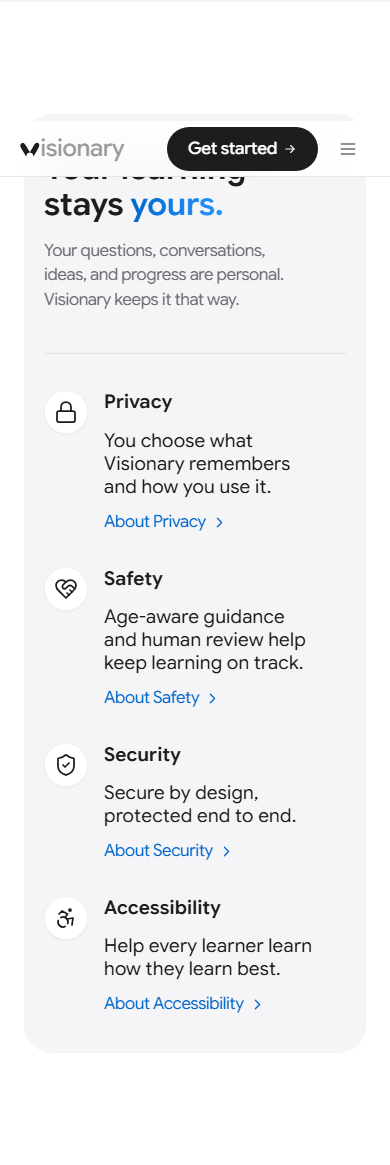
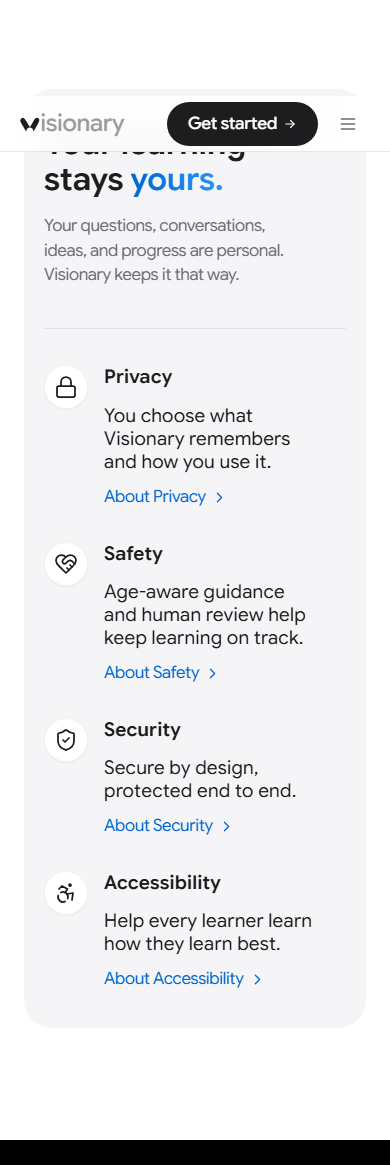
FHE-01 (V10): the intelligence chapter responds correctly on every device
Device-band study (320/390/768/844/1024/1068) found the phone and tablet
compositions scattering into voids: the generic chapter padding
(--public-section-py, 112px phone) rode INSIDE the promo band, pushing
the section edge ~112px below the bot so the founder's edge bleed never
cropped, and justify-center stranded free space above, between, and
below the words and mark.

Fix — the chapter is a full-bleed stage and now lays out with the
pinned hero's own grammar:
- padding-block: 0 on the promo band (bridge override): the mark
  anchors at the section floor and the bleed crops past the real edge
- the words center in the free stage above the mark (my-auto), never a
  justify-center cluster
- the mark scales by tier: 62vw phone, 42vw tablet (323->354px on
  768/844), 40vw desktop — the product earns presence at every width
- one image element throughout (no display:none duplicates)

Verified across the band: 320/390/768/844 read statement -> breath ->
product rising past the frame; 1024/1068 keep the words-left/product-
right stage; no horizontal overflow at any width; quality gate PASS;
tests 871/871 after scope refresh.

diff --git a/visionary-app/frontend/src/components/landing/persona/premium/PremiumIntelligenceSection.jsx b/visionary-app/frontend/src/components/landing/persona/premium/PremiumIntelligenceSection.jsx
@@ -258,14 +258,14 @@ function PremiumIntelligenceSection({ steps, sub, promo = false, ctaLabel, ctaTo
 
   if (promo) {
     return (
-      <section ref={headRef} data-section="05-intelligence" className="scene-dark relative isolate flex min-h-[clamp(560px,74svh,780px)] flex-col items-center justify-center overflow-hidden lg:flex-row" style={{ fontFamily: fontStack }}>
+      <section ref={headRef} data-section="05-intelligence" className="scene-dark relative isolate flex min-h-[clamp(560px,74svh,780px)] flex-col overflow-hidden lg:flex-row lg:items-center" style={{ fontFamily: fontStack }}>
         {/* Apple's dark chapters are flat black — no glow washes (measured
             2026-11-21 on /education + /iphone); the gradient statement and
             the product carry the scene's color. */}
         {/* the words — left of the product: Apple's product-page grammar
             (the words introduce, the product appears on the right).
             Centered on phones, where the mark rises below. */}
-        <ScrollReveal className="relative z-10 mx-auto w-full max-w-[1400px] px-6 lg:px-[var(--frame-x)]">
+        <ScrollReveal className="relative z-10 mx-auto my-auto w-full max-w-[1400px] px-6 py-14 lg:px-[var(--frame-x)] lg:py-0">
           <div className="max-w-[560px] text-center lg:text-left">
             <RevealItem idx={0}>
               <h2 data-type="section" className="text-balance font-semibold">
@@ -313,7 +313,7 @@ function PremiumIntelligenceSection({ steps, sub, promo = false, ctaLabel, ctaTo
               loading="eager"
               decoding="async"
               draggable="false"
-              className="pointer-events-none h-auto w-[min(62vw,300px)] translate-y-[30%] select-none lg:w-[min(40vw,540px)] lg:translate-y-[24%]"
+              className="pointer-events-none h-auto w-[min(62vw,300px)] translate-y-[30%] sm:w-[min(42vw,420px)] select-none lg:w-[min(40vw,540px)] lg:translate-y-[24%]"
             />
           </picture>
         </div>

diff --git a/visionary-app/frontend/src/styles/public-bridge.css b/visionary-app/frontend/src/styles/public-bridge.css
@@ -236,6 +236,10 @@ main > section[data-section="05-intelligence"]:not([data-surface="light"]),
 main > section[data-section="05-one-intelligence"]:not([data-surface="light"]) {
   background: var(--scene-ink, #000000) !important;
   color: #f5f7fa;
+  /* The promo band is a full-bleed stage (hero grammar): the mark anchors at
+     the section floor and bleeds past it — generic chapter padding would push
+     the edge below the product and strand voids around the words. */
+  padding-block: 0;
 }
 
 main > section[data-section="05-intelligence"]:not([data-surface="light"]) p,
